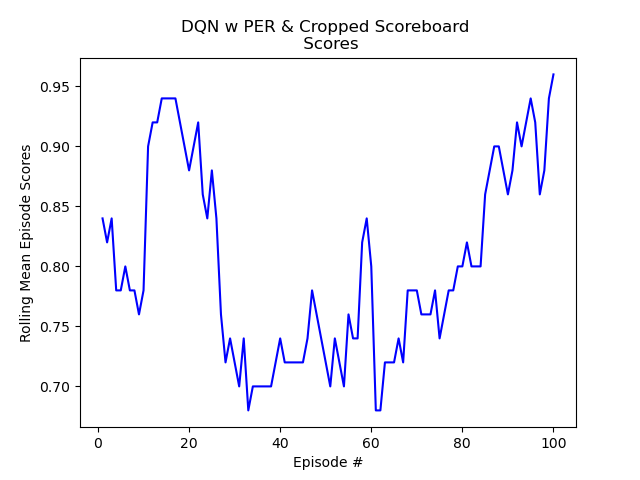
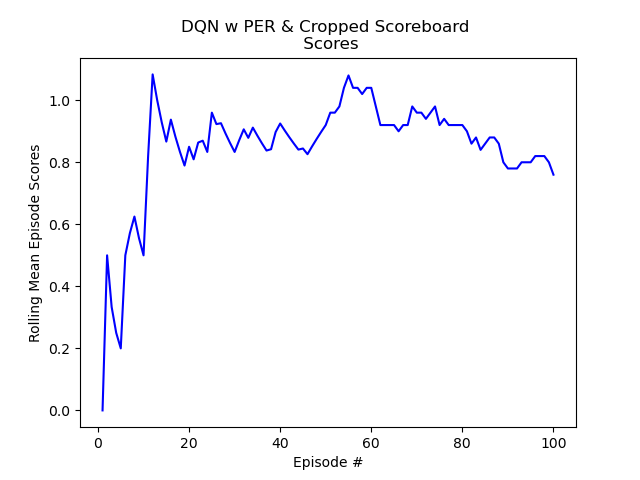
fixed small bug adding clipping to td-errors to 1.0 max when calculated in train_policy_net()

diff --git a/Illinois_hw/agent.py b/Illinois_hw/agent.py
@@ -149,7 +149,8 @@ class Agent():
                 self.alpha = max(0.2, self.alpha - (self.alpha_max - 0.2)/TRAINING_STEPS)
 
                 # Update TD-errors in replay buffer
-                td_errors = np.abs((q_values - target_q_values).squeeze(1).detach().cpu().numpy())
+                td_errors = (q_values - target_q_values).squeeze(1).detach().cpu().numpy()
+                td_errors = np.clip(np.abs(td_errors), 1e-6, 1)  # clip to avoid divide by zero and huge error spikes
                 self.memory.update_td_errors(mini_batch_indices, td_errors)
 
                 # Importance sampling to remove the bias of oversampling high TD-error states
